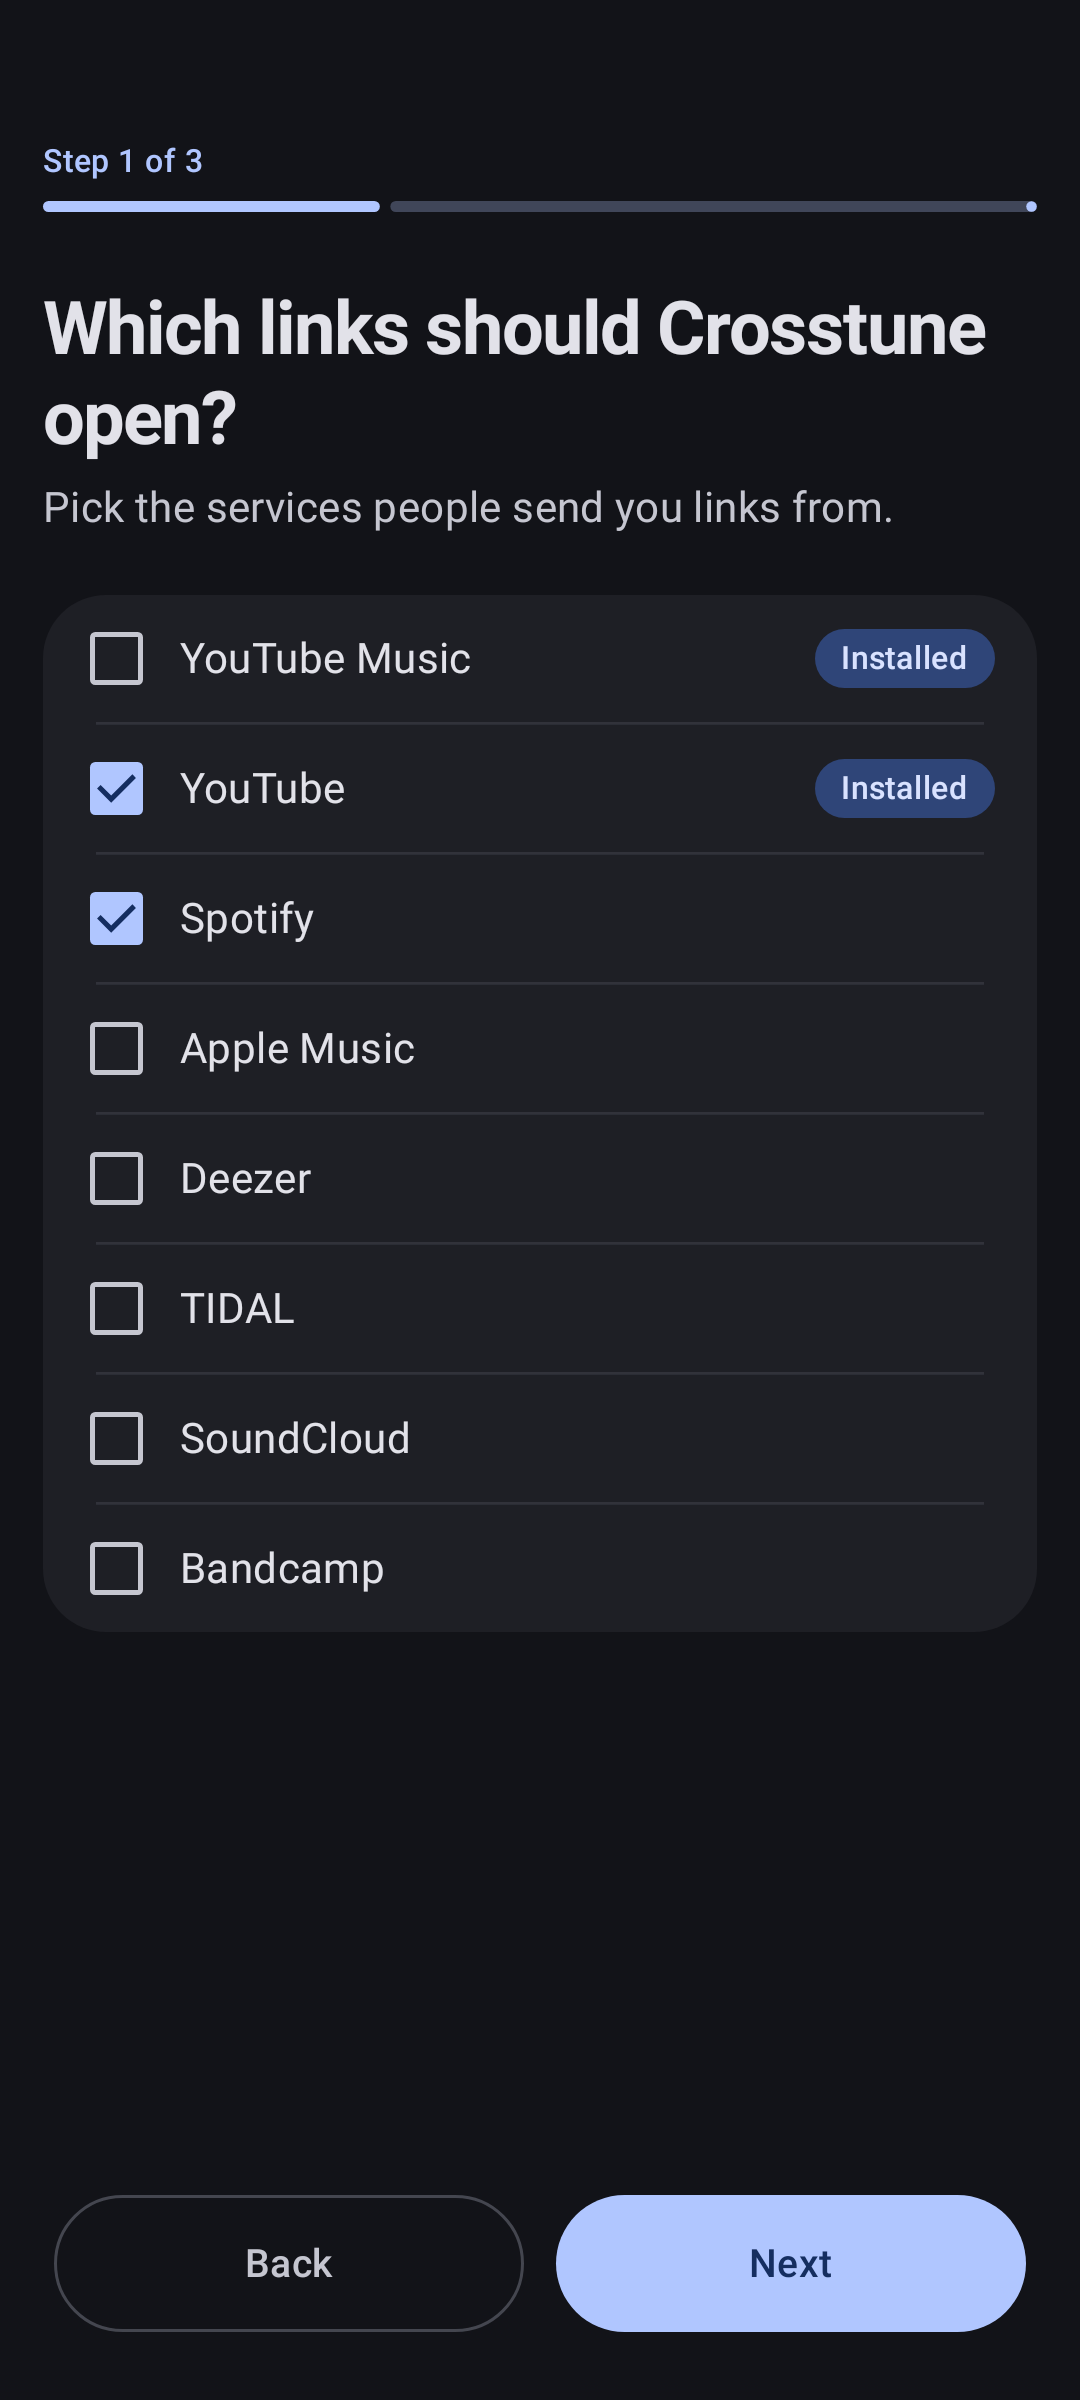
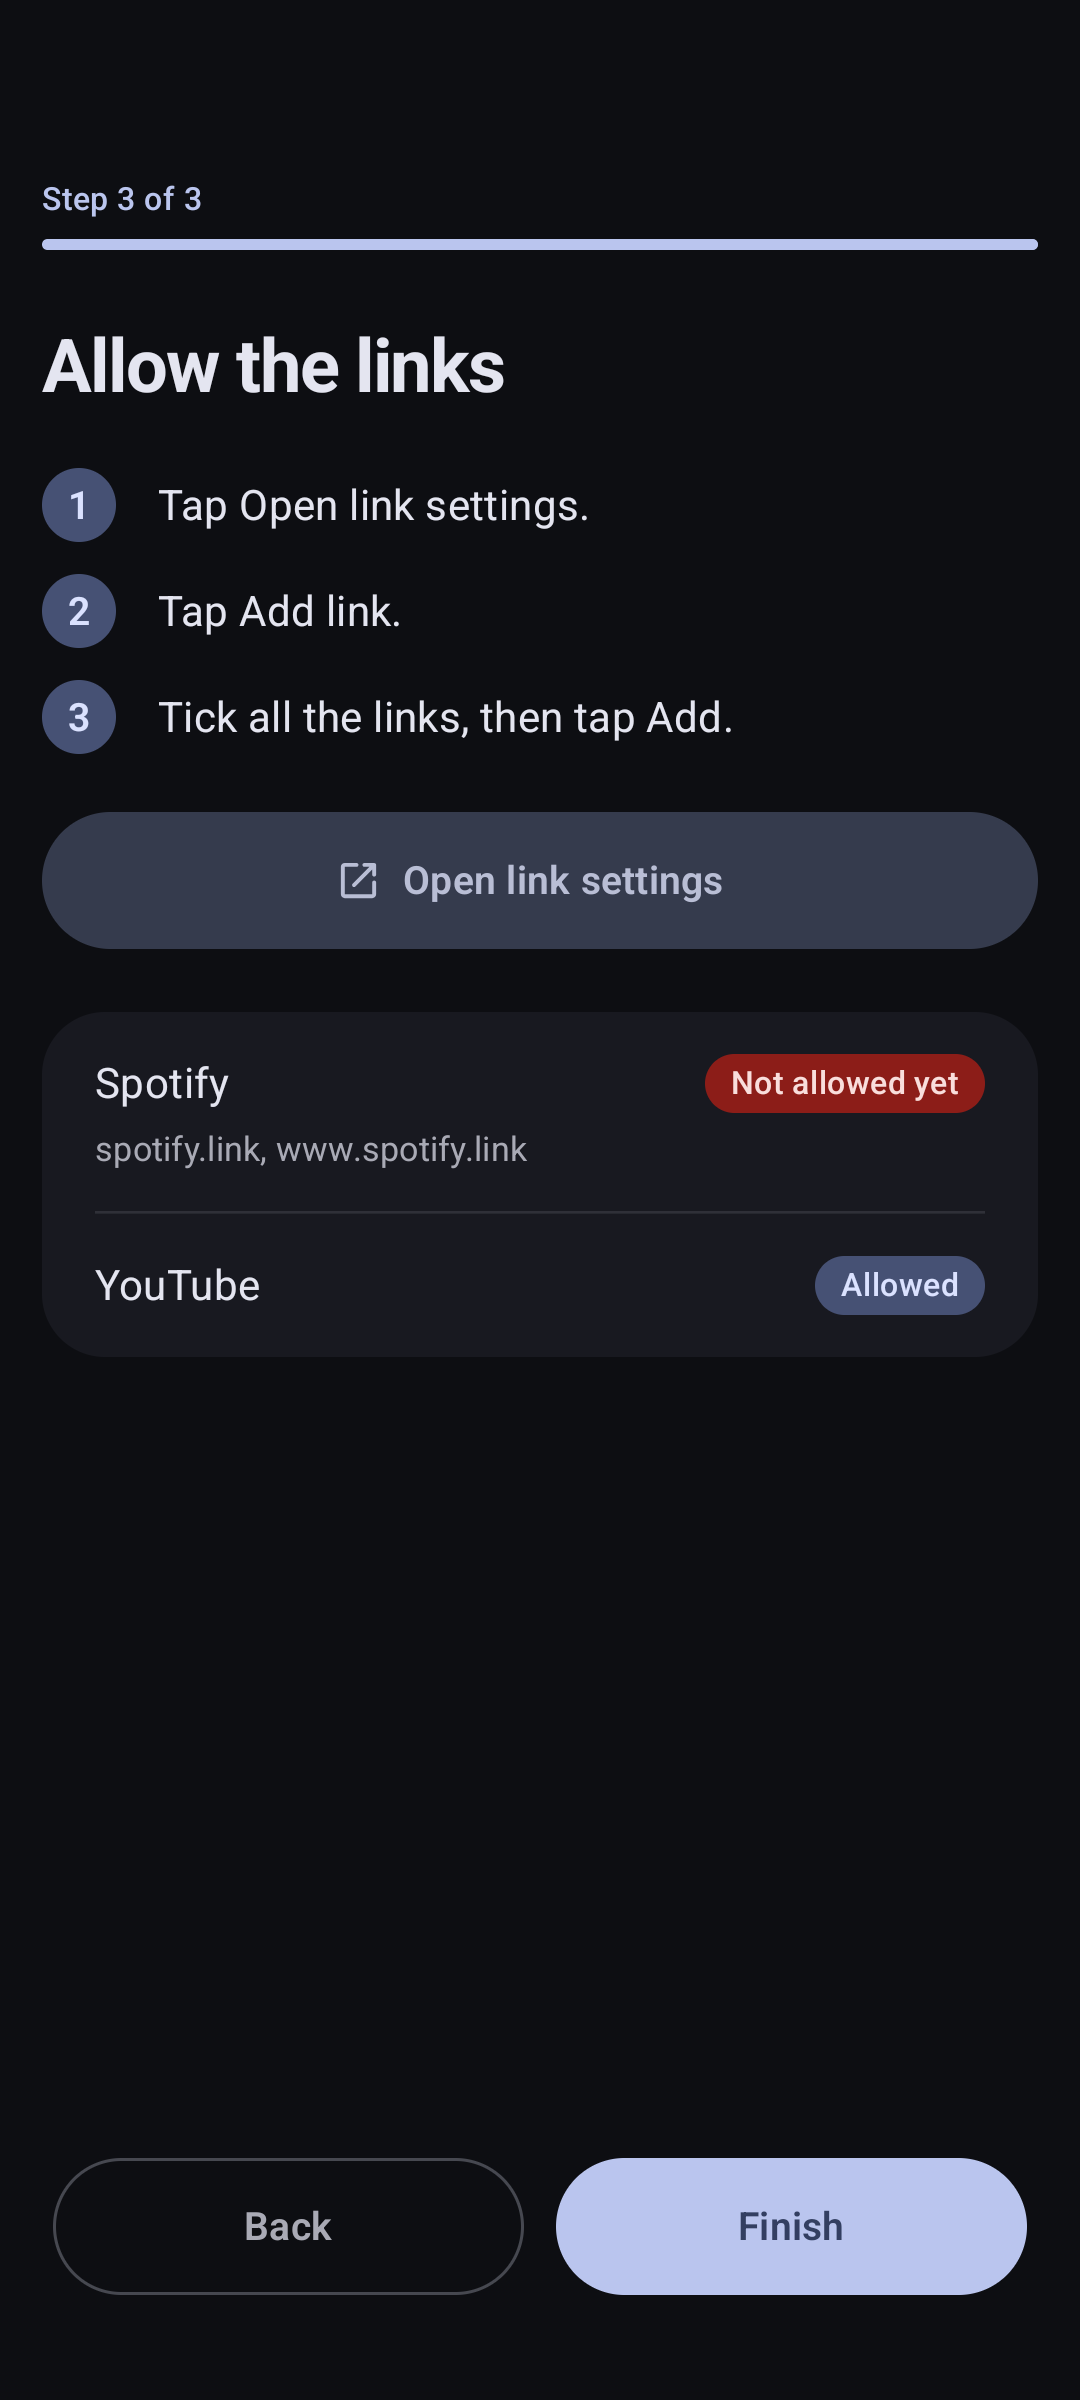
Retake the README and store screenshots with the new UI
Home and Recent show the new title logo, Settings is unchanged in layout,
and the setup shot now shows the reworked Allow the links step.

diff --git a/README.md b/README.md
@@ -8,7 +8,7 @@ Someone sends you a link from one music service, but you listen on another. With
   <img src="screenshots/home.png" alt="A Spotify link resolved to its song, ready to open in YouTube Music" width="200">
   <img src="screenshots/recent.png" alt="The result with recent links and their covers" width="200">
   <img src="screenshots/settings.png" alt="Settings: default app and which services' links Crosstune opens" width="200">
-  <img src="screenshots/setup.png" alt="First-run setup: choosing which links Crosstune opens" width="200">
+  <img src="screenshots/setup.png" alt="First-run setup: allowing the links in Android" width="200">
 </p>
 
 ## ⬇ Install
